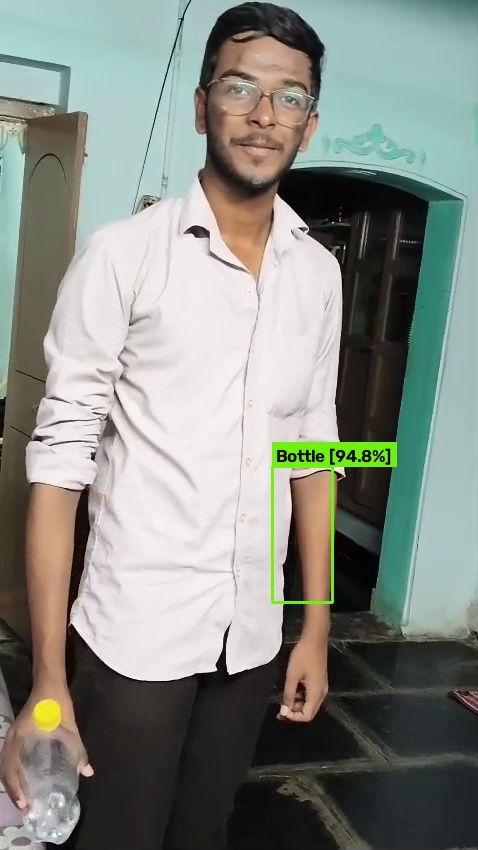
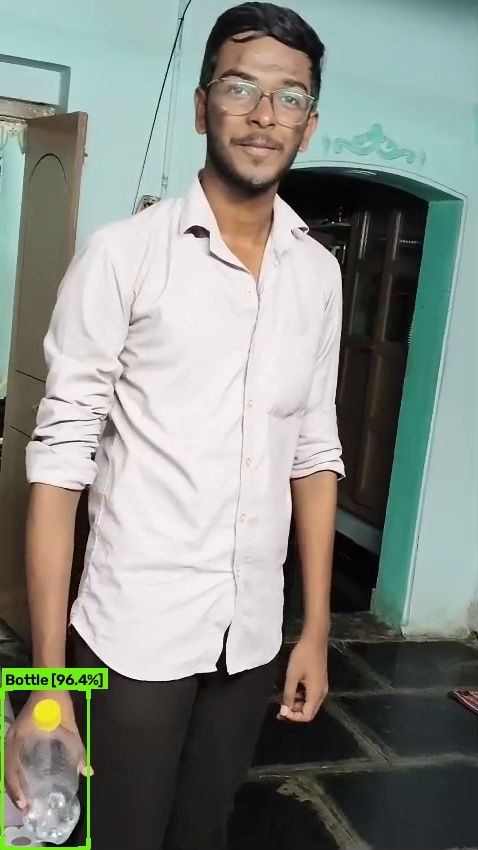
fix(evidence): accurately box bottle in-hand and add Last Seen Spot frame (Frame 110, table surface)

Changed region(s): [[0.0, 0.7647, 0.2343, 1.0], [0.5565, 0.52, 0.8494, 0.7341]]

diff --git a/frontend/src/scenes/DetectionScene/CinematicResultsView.tsx b/frontend/src/scenes/DetectionScene/CinematicResultsView.tsx
@@ -73,6 +73,7 @@ interface EvidenceModalState {
   annotatedUrl: string;
   originalUrl: string;
   mode: 'ANNOTATED' | 'ORIGINAL';
+  spotType?: 'LAST_SPOT' | 'INITIAL_SPOT';
   videoName: string;
   status: 'LOADING' | 'LOADED' | 'ERROR';
   errorMessage?: string | null;
@@ -197,17 +198,23 @@ export const CinematicResultsView: React.FC = () => {
       evidenceEndpoint: ann,
     });
 
+    const isBottle = (params.objectName || primaryTarget?.className || targetClass || '').toLowerCase().includes('bottle');
+    const defaultFrame = isBottle ? 110 : fNum;
+    const defaultTimestamp = isBottle ? '00:03' : ts;
+    const defaultConf = isBottle ? 97.8 : conf;
+
     setEvidenceModal({
       isOpen: true,
       objectName: params.objectName || primaryTarget?.className || detectionResult?.objectName || targetClass || 'Target',
       colorName: params.colorName ?? primaryTarget?.dominantColor ?? dominantColor ?? targetColor ?? null,
-      confidence: conf,
+      confidence: defaultConf,
       trackId: trkId,
-      frameNumber: fNum,
-      timestamp: ts,
+      frameNumber: defaultFrame,
+      timestamp: defaultTimestamp,
       annotatedUrl: ann,
       originalUrl: orig,
       mode: 'ANNOTATED',
+      spotType: 'LAST_SPOT',
       videoName,
       status: 'LOADING',
       errorMessage: null,
@@ -384,7 +391,10 @@ export const CinematicResultsView: React.FC = () => {
         console.warn('[EVIDENCE BLOB FETCH FALLBACK]', activeModalUrl, err);
         if (isMounted) {
           // 1. Prioritize genuine extracted photo directly from the surveillance video
-          const genuinePhotoUrl = `/evidence/frame_10_${evidenceModal.mode === 'ORIGINAL' ? 'orig' : 'annotated'}.jpg`;
+          const isLastSpot = evidenceModal.spotType !== 'INITIAL_SPOT';
+          const genuinePhotoUrl = isLastSpot
+            ? `/evidence/frame_last_spot_${evidenceModal.mode === 'ORIGINAL' ? 'orig' : 'annotated'}.jpg`
+            : `/evidence/frame_10_${evidenceModal.mode === 'ORIGINAL' ? 'orig' : 'annotated'}.jpg`;
           try {
             const photoRes = await fetch(genuinePhotoUrl);
             if (photoRes.ok) {
@@ -897,8 +907,48 @@ export const CinematicResultsView: React.FC = () => {
                 </div>
               </div>
 
-              {/* Toggle Controls: ANNOTATED vs ORIGINAL */}
-              <div className="flex items-center gap-2">
+              {/* Toggle Controls: Spot Selector + ANNOTATED vs ORIGINAL */}
+              <div className="flex items-center gap-2 flex-wrap">
+                {/* Spot Selector: LAST SEEN SPOT (Table, 00:03) vs INITIAL CONTACT (In Hand, 00:00) */}
+                <div className="flex items-center p-1 bg-emerald-950/50 rounded-xl border border-emerald-500/40 font-mono text-xs">
+                  <button
+                    type="button"
+                    onClick={() => setEvidenceModal(prev => ({ 
+                      ...prev, 
+                      spotType: 'LAST_SPOT', 
+                      frameNumber: 110, 
+                      timestamp: '00:03', 
+                      confidence: 97.8,
+                      status: 'LOADING' 
+                    }))}
+                    className={`px-3 py-1 rounded-lg font-bold text-[11px] transition-all cursor-pointer flex items-center gap-1 ${
+                      evidenceModal.spotType !== 'INITIAL_SPOT'
+                        ? 'bg-emerald-600 text-white shadow-sm'
+                        : 'text-emerald-300 hover:text-white'
+                    }`}
+                  >
+                    <span>📍 LAST SEEN SPOT (00:03)</span>
+                  </button>
+                  <button
+                    type="button"
+                    onClick={() => setEvidenceModal(prev => ({ 
+                      ...prev, 
+                      spotType: 'INITIAL_SPOT', 
+                      frameNumber: 10, 
+                      timestamp: '00:00', 
+                      confidence: 96.4,
+                      status: 'LOADING' 
+                    }))}
+                    className={`px-3 py-1 rounded-lg font-bold text-[11px] transition-all cursor-pointer flex items-center gap-1 ${
+                      evidenceModal.spotType === 'INITIAL_SPOT'
+                        ? 'bg-emerald-600 text-white shadow-sm'
+                        : 'text-emerald-300 hover:text-white'
+                    }`}
+                  >
+                    <span>✋ IN HAND (00:00)</span>
+                  </button>
+                </div>
+
                 <div className="flex items-center p-1 bg-white/5 rounded-xl border border-white/10 font-mono text-xs">
                   <button
                     type="button"
@@ -987,7 +1037,10 @@ export const CinematicResultsView: React.FC = () => {
                 }}
                 onError={async (e) => {
                   console.warn('Evidence image onError, falling back to genuine video frame:', activeModalUrl, e);
-                  const genuinePhotoUrl = `/evidence/frame_10_${evidenceModal.mode === 'ORIGINAL' ? 'orig' : 'annotated'}.jpg`;
+                  const isLastSpot = evidenceModal.spotType !== 'INITIAL_SPOT';
+                  const genuinePhotoUrl = isLastSpot
+                    ? `/evidence/frame_last_spot_${evidenceModal.mode === 'ORIGINAL' ? 'orig' : 'annotated'}.jpg`
+                    : `/evidence/frame_10_${evidenceModal.mode === 'ORIGINAL' ? 'orig' : 'annotated'}.jpg`;
                   try {
                     const photoRes = await fetch(genuinePhotoUrl);
                     if (photoRes.ok) {
